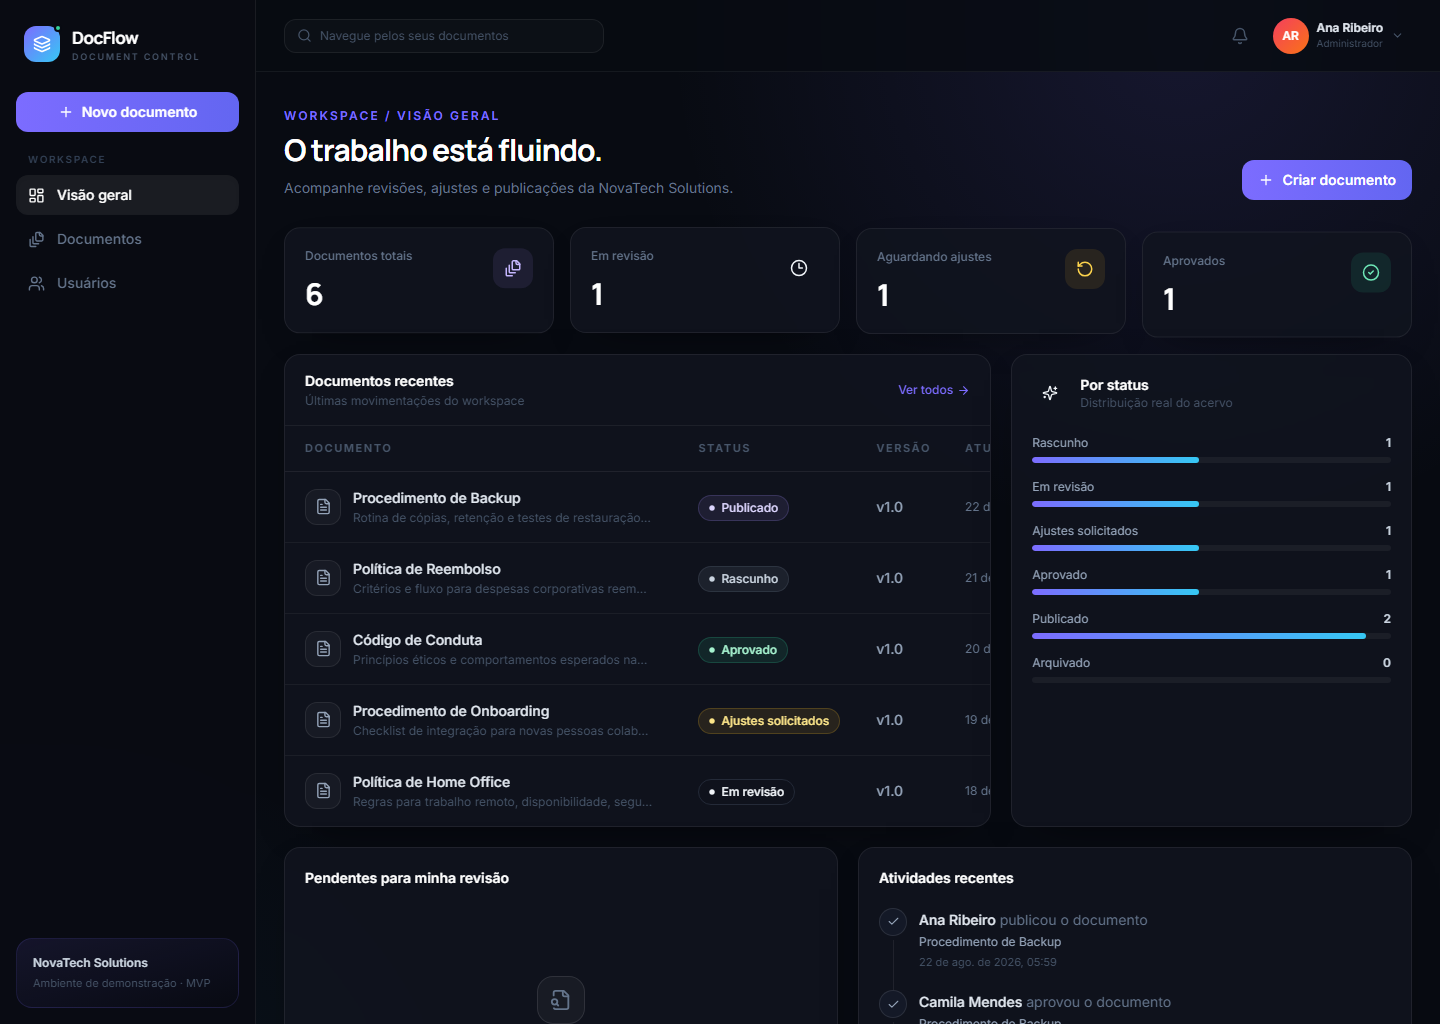
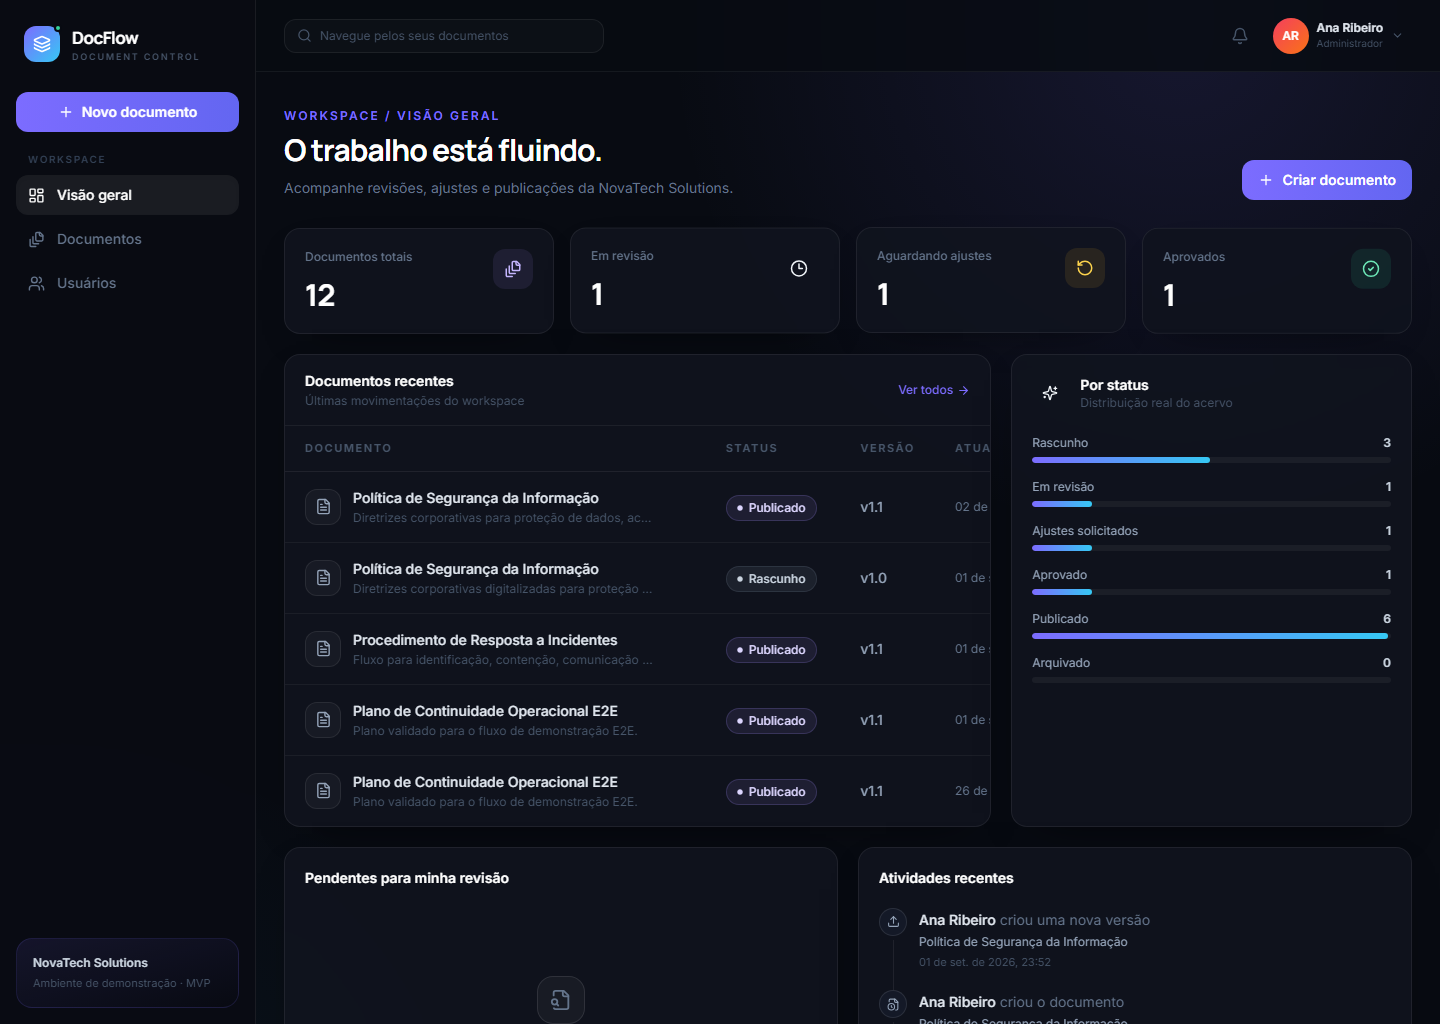
docs: atualizar capturas verificadas da demonstração

diff --git a/frontend/scripts/capture-screenshots.js b/frontend/scripts/capture-screenshots.js
@@ -25,7 +25,13 @@ try {
   await page.goto(`${baseURL}/documents`)
   await page.getByRole('heading', { name: 'Biblioteca de documentos' }).waitFor()
   await page.getByPlaceholder('Buscar por título…').fill('Política de Segurança da Informação')
-  await page.getByText('Política de Segurança da Informação', { exact: true }).first().click()
+  await page
+    .locator('tr:visible', { hasText: 'Política de Segurança da Informação' })
+    .filter({ hasText: 'Publicado' })
+    .first()
+    .locator('a[href^="/documents/"]')
+    .first()
+    .click()
   await page.getByRole('heading', { name: 'Política de Segurança da Informação' }).waitFor()
   await page.screenshot({ path: `${outputDirectory}/documento.png`, fullPage: true })
 } finally {
